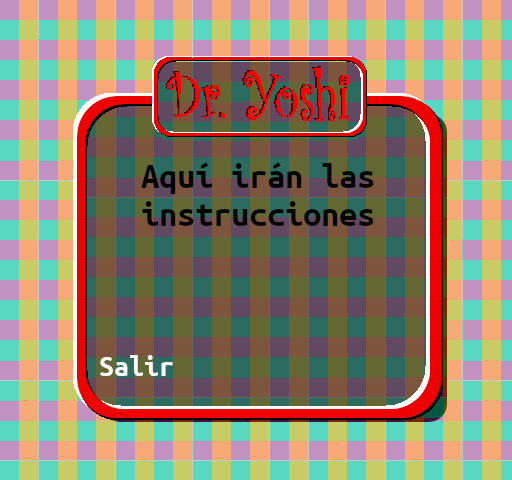
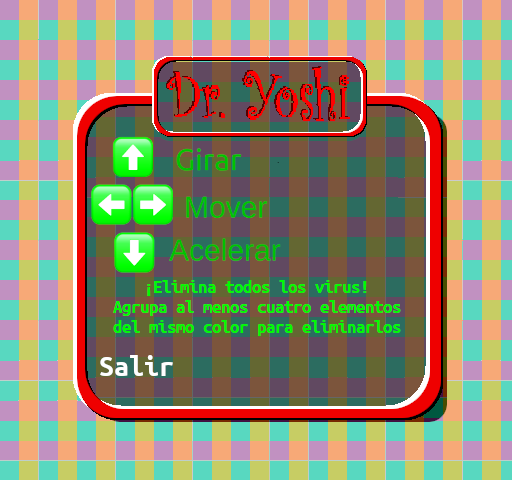
entrega 1 completa

Changed region(s): [[0.1562, 0.2812, 0.7812, 0.7188]]

diff --git a/DrYoshi/code/scene.js b/DrYoshi/code/scene.js
@@ -15,6 +15,7 @@ function Scene() {
 	var creditos = new Texture("../sprites/sprite_creditos.png");
 	var jugar = new Texture("../sprites/sprite_jugar.png");
 	var instr = new Texture("../sprites/sprite_instr.png");
+	var instr_anim = new Texture("../sprites/animacion_creditos.png");
 
 	// Create objects
 	this.imageJuego = new StaticImage(0, 0, 512, 480, fondo_juego);
@@ -27,6 +28,8 @@ function Scene() {
 	this.textoCreditos = new Sprite(187, 374, 160, 41, 1, creditos);
 	this.textoJugar = new Sprite(188, 253, 125, 51, 1, jugar);
 	this.textoInstr = new Sprite(189, 317, 221, 36, 1, instr);
+	this.animacionInstr = new Sprite(350,175, 16,64, 1, instr_anim);
+	
 	
 	this.textoSalir.addAnimation();
 	this.textoSalir.addKeyframe(0, [0, 0, 73, 21]);
@@ -47,6 +50,12 @@ function Scene() {
 	this.textoInstr.addKeyframe(0, [0, 0, 221, 36]);
 	this.textoInstr.addKeyframe(0, [0, 36, 221, 36]);
 	this.textoInstr.setAnimation(0);
+
+	this.animacionInstr.addAnimation();
+	this.animacionInstr.addKeyframe(0, [0, 0,  16, 64]);
+	this.animacionInstr.addKeyframe(0, [0, 64,  16, 64]);
+	this.animacionInstr.setAnimation(0);
+
 
 	// Loading texture to use in a TileMap
 	var tilesheet = new Texture("../tiles/tiles16.png");
@@ -72,7 +81,10 @@ Scene.prototype.update = function (deltaTime, whichScene) {
 		this.map.update(deltaTime);
 		this.textoSalir.update(deltaTime);
 		
-	} else if (whichScene > 1){
+	} else if (whichScene == 2){
+		this.textoSalir.update(deltaTime);
+		this.animacionInstr.update(deltaTime);
+	} else {
 		this.textoSalir.update(deltaTime);
 	}
 	// this.virusSprite1.update(deltaTime)
@@ -117,7 +129,7 @@ Scene.prototype.draw = function (whichScene, whichButton) // meter argumento
 		this.textoSalir.y = 150;
 		this.textoSalir.draw();
 
-	} else if (whichScene == 2) {
+	} else if (whichScene == 2) {	
 		this.imageInstr.draw();
 
 		// Draw sprite salir
@@ -125,6 +137,9 @@ Scene.prototype.draw = function (whichScene, whichButton) // meter argumento
 		this.textoSalir.x = 100;
 		this.textoSalir.y = 355;
 		this.textoSalir.draw();
+
+		// draw animacion instr
+		this.animacionInstr.draw();
 	} else {
 		this.imageCreditos.draw();
 

diff --git a/DrYoshi/code/game.js b/DrYoshi/code/game.js
@@ -52,6 +52,7 @@ function frameUpdate(timestamp) {
 	var deltaTime = timestamp - previousTimestamp;
 	if (deltaTime > TIME_PER_FRAME) {
 
+		// mantener esto aquí ??
 		if (keyboard[40]) {
 			keyboard[40] = false; 
 			if (whichScene == 0) {
@@ -78,8 +79,6 @@ function frameUpdate(timestamp) {
 			}
 		}
 	
-
-
 		scene.update(TIME_PER_FRAME, whichScene);
 		previousTimestamp += TIME_PER_FRAME
 		scene.draw(whichScene, whichButton);

diff --git a/README.md b/README.md
@@ -4,7 +4,8 @@ Proyecto de la asignatura "Juegos por Computador" del MEI en la UPC.
 
 # TO-DO List
 - Entrega 2
-
+    - Hay que crear una escena para cada pantalla, mover el código de lógica de game.js al scene.js de cada pantalla. Game.js debe saber en que pantalla está en cada momento
+    - Para crear las pastillas hay que crear 2 sprites (~/sprites/pastillas) que se moverán conjuntamente
 
 
 
